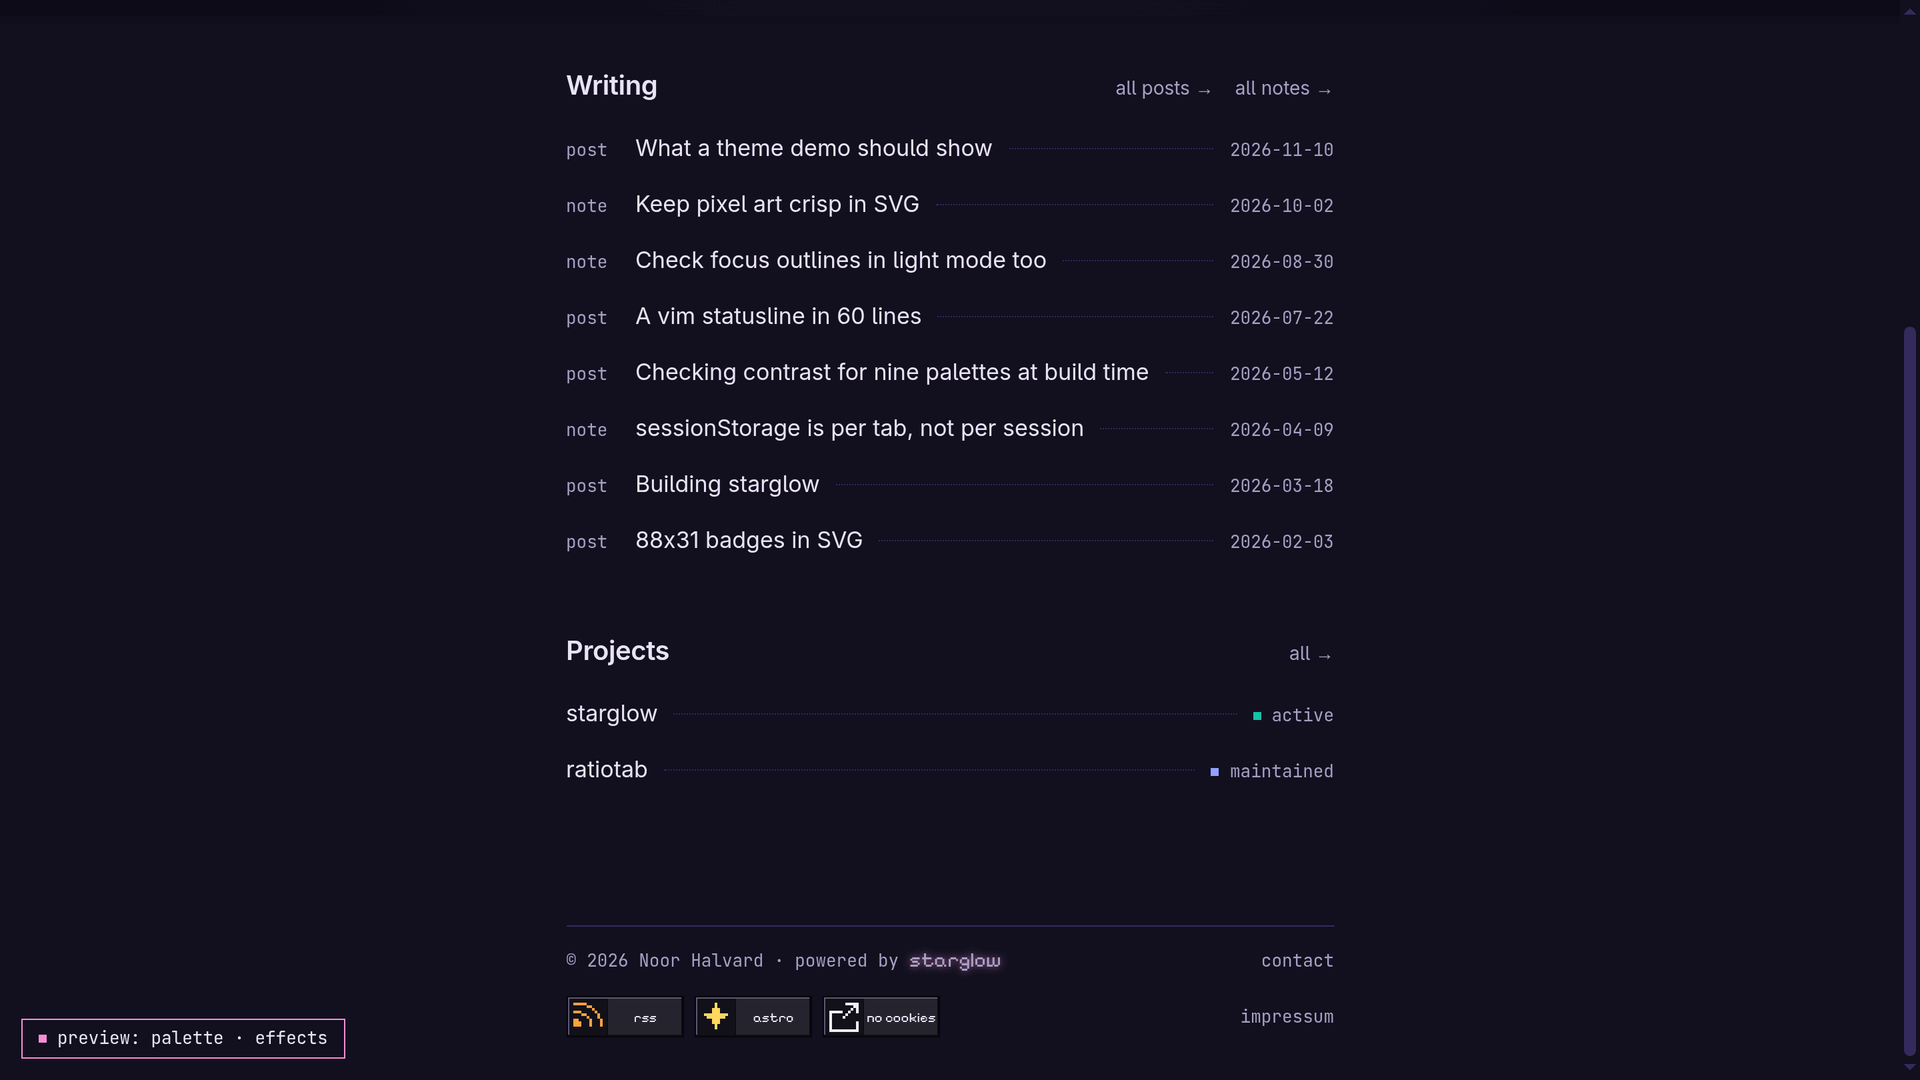
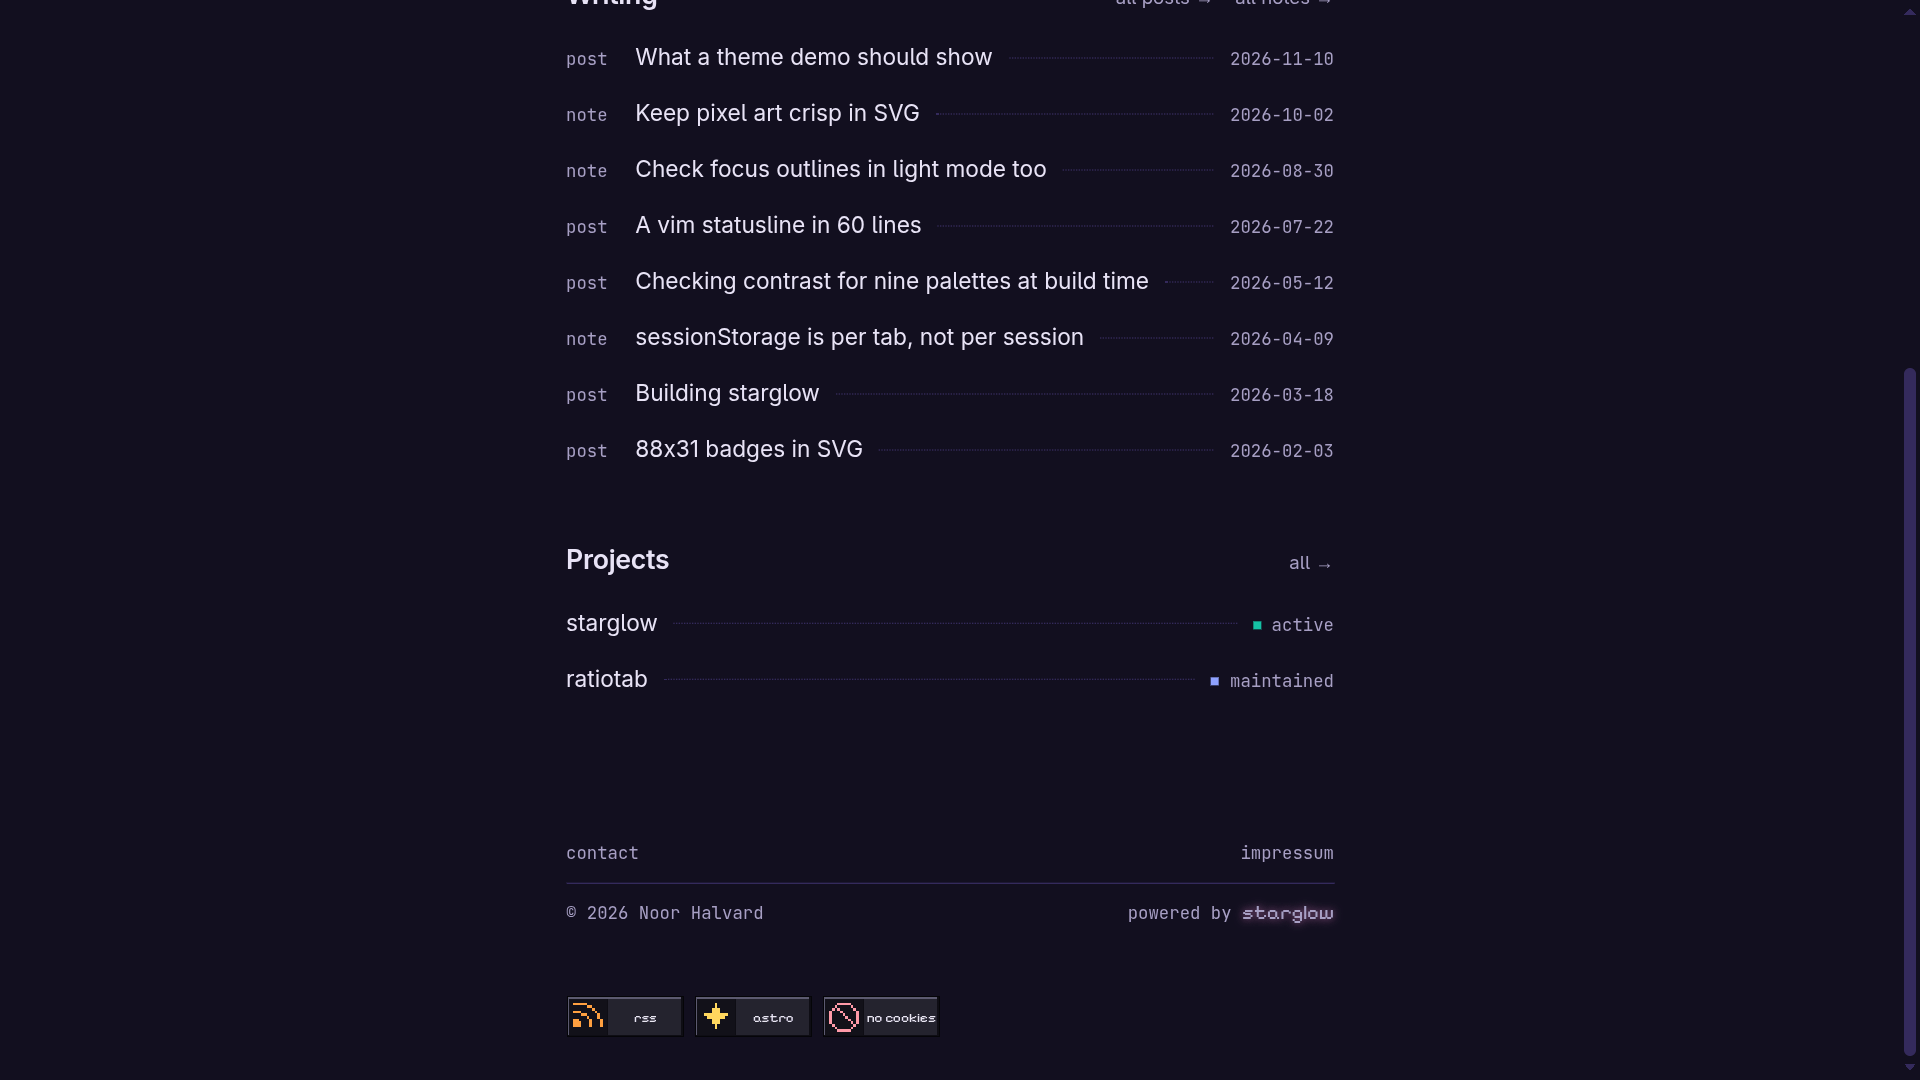
docs: retake the footer screenshots

diff --git a/README.md b/README.md
@@ -29,7 +29,7 @@ Dark first, its own colour palettes, a little 2000s glow.
 
 ![The same post section, with its five tinted callouts and the statusline, in all nine palettes, three by three: dark starglow, void, aurora and ember, then light starglow, paper, petal, frost and sand](.github/assets/palettes.png)
 
-![The bottom of the home page in the dark starglow palette: the writing list, the Projects section with two projects and their status, then the footer with the copyright line, the "powered by starglow" credit, a contact link, three 88x31 badges (rss, astro, no cookies) and an impressum link](.github/assets/footer.png)
+![The bottom of the home page in the dark starglow palette: the writing list and the Projects section, then the footer with contact and impressum links, a rule, the copyright line on the left and a "powered by starglow" credit on the right, and three 88x31 badges (rss, astro, no cookies)](.github/assets/footer.png)
 
 ![The preview panel open on the home page in the dark aurora palette, with selects for the dark and light palette and the ambient light, checkboxes for wordmark glow and statusline, and a reset button](.github/assets/preview-open.png)
 

diff --git a/src/content/blog/2025/88x31-badges-in-svg.md b/src/content/blog/2025/88x31-badges-in-svg.md
@@ -8,7 +8,7 @@ tags: [svg, starglow, css]
 
 I had a "Netscape Now!" button on my first homepage. It was 88 pixels wide and 31 tall, like nearly every button of that era, and I've wanted a row of them under a site ever since. starglow finally gave me an excuse.
 
-![A row of three 88x31 pixel badges, labelled rss, astro and no cookies, each with a small pixel icon on the left, under a copyright line with a "powered by starglow" credit, next to contact and impressum links](./_assets/footer-badges.webp)
+![A site footer: contact and impressum links over a rule, a copyright line with a "powered by starglow" credit, and below them three 88x31 pixel badges labelled rss, astro and no cookies, each with a small pixel icon on the left](./_assets/footer-badges.webp)
 
 _The footer of this site._
 
